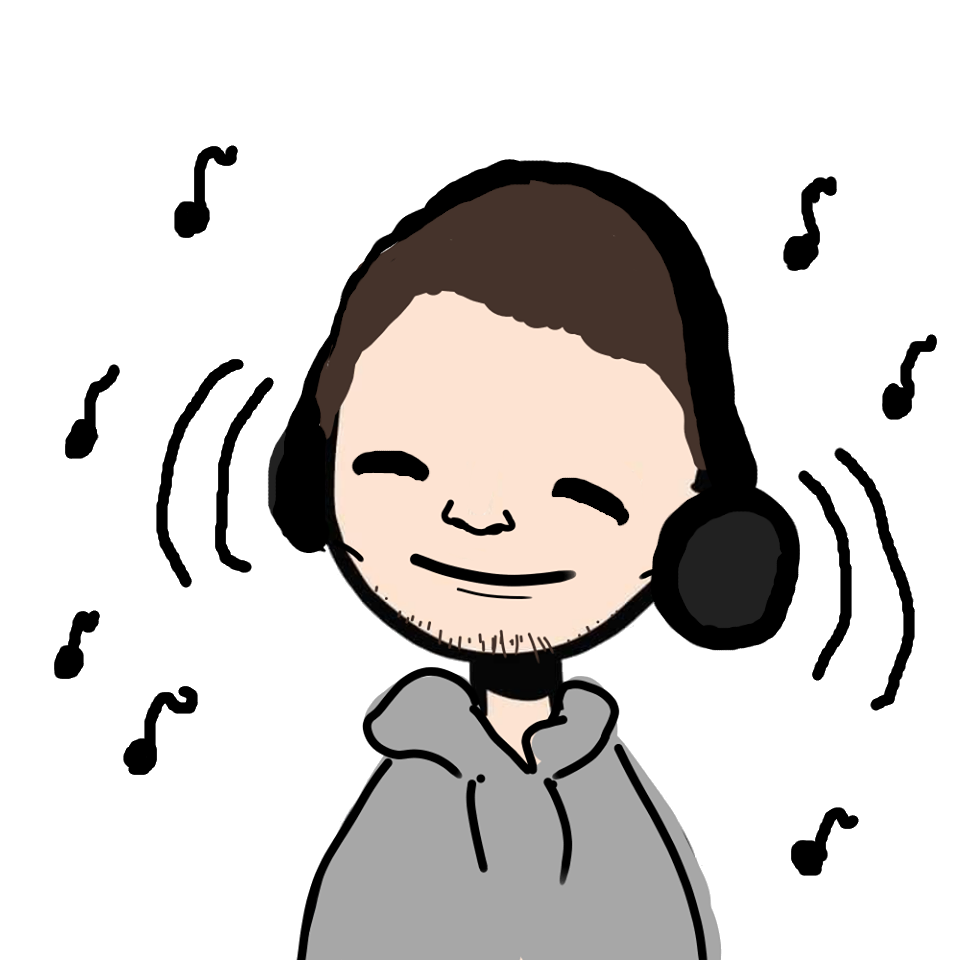
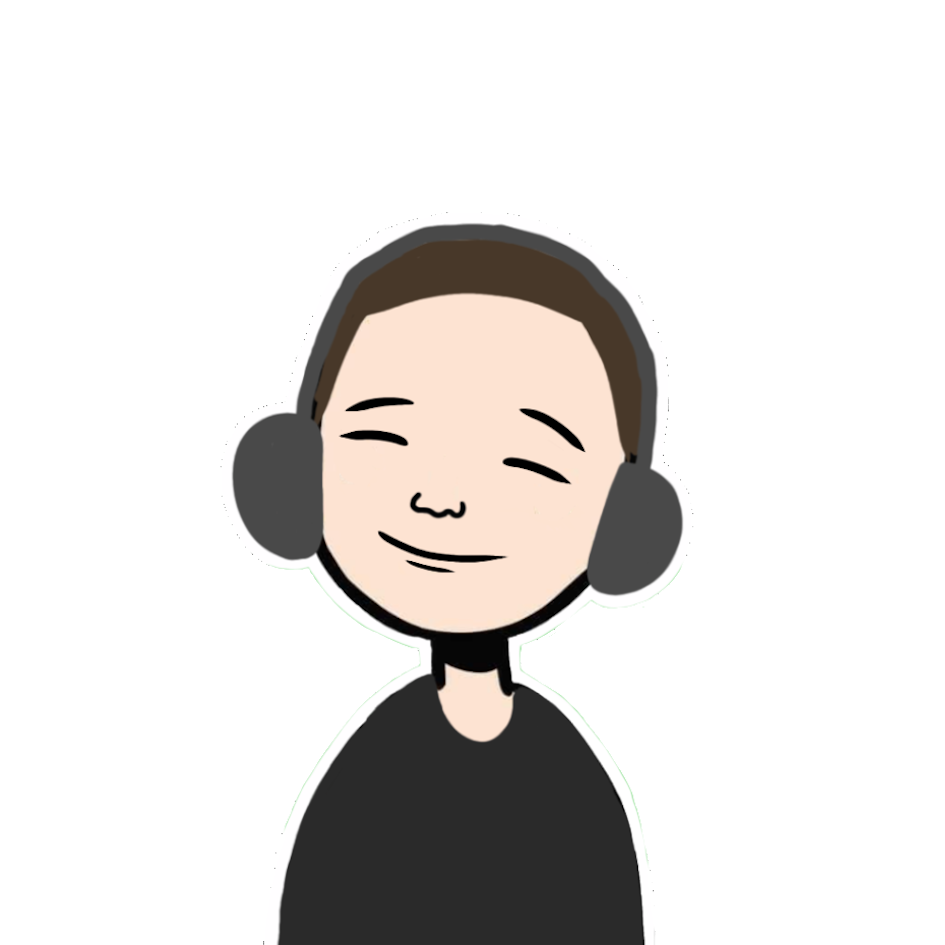
detecting music genre, new sprites

diff --git a/src/App.vue b/src/App.vue
@@ -2,7 +2,7 @@
     <div id="app">
         <img alt="Album" v-if="spotifyAPI" :src="spotifyAPI ? spotifyAPI.item.album.images[0].url : ''" width="280"
              class="album">
-        <img alt="Tomek" :src="'/' + (isListening ? 'music.png' : 'still.png')" width="275" class="avatar">
+        <img alt="Tomek" :src="tomekImage" width="275" class="avatar">
         <div class="progress_bar" style="width:50%"></div>
         <Spotify :spotify="spotifyAPI"></Spotify>
         <footer>Tomasz Wosinski {{ currentYear }} © Wszelkie prawa zastrzeżone</footer>
@@ -23,6 +23,7 @@
         data: () => {
             return {
                 spotifyToken: '',
+                spotifyGenres: [],
                 spotifyAPI: null
             }
         },
@@ -55,8 +56,25 @@
                         console.log(error);
                     })
             },
+            getArtist: function () {
+                if (this.spotifyAPI) {
+                    var that = this;
+                    const axios = require('axios').default;
+                    axios.get(`https://api.spotify.com/v1/artists/${this.spotifyAPI ? this.spotifyAPI.item.artists[0].id : ''}`, {
+                        headers: {
+                            'Authorization': `Bearer ${this.spotifyToken}`
+                        }
+                    })
+                        .then(({data}) => {
+                            that.spotifyGenres = data.genres;
+                        })
+                        .catch(function () {
+                            // handle error
+                            that.getAccessToken();
+                        })
+                }
+            },
             getSpotifyPlayback: function () {
-                console.log(process.env);
                 var that = this;
                 const axios = require('axios').default;
                 axios.get('https://api.spotify.com/v1/me/player', {
@@ -65,22 +83,25 @@
                     }
                 })
                     .then(({data}) => {
-                        that.setSpotifyPlayback(data);
+                        if (data) {
+                            that.spotifyAPI = data;
+                            that.getArtist();
+                        }
                     })
                     .catch(function () {
                         // handle error
                         that.getAccessToken();
                     })
             },
-            setSpotifyPlayback: function (spotify) {
-                this.spotifyAPI = spotify;
-            },
-            setSpotifyToken: function (token) {
-                this.spotifyToken = token;
-            },
         },
         computed: {
-
+            tomekImage: function () {
+                const genres = this.spotifyGenres.join(',');
+                return '/' + (this.isListening ?
+                    (genres.includes('hardcore') || genres.includes('rock') || genres.includes('metal') ?
+                        'rock.png' : 'music.png') :
+                    'still.png');
+            },
             isListening() {
                 return this.spotifyAPI ? this.spotifyAPI.is_playing : false;
             },
@@ -116,7 +137,6 @@
         vertical-align: middle;
         border: 2px solid #ccc;
         z-index: 0;
-        filter: blur(1px);
     }
 
     .album {
